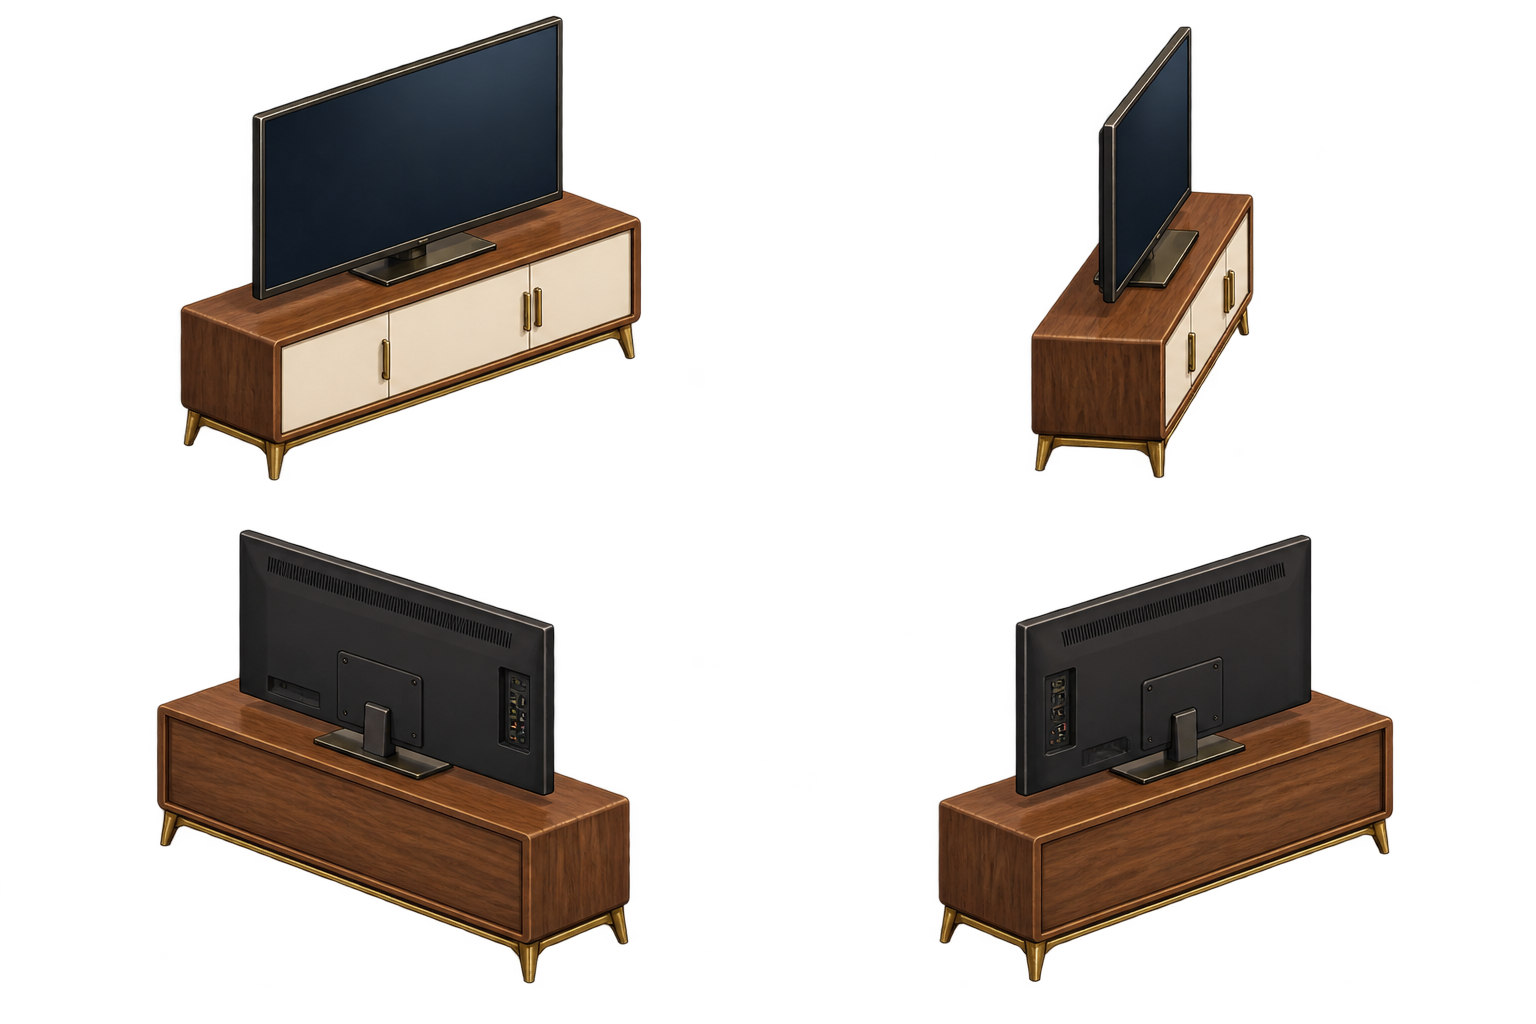
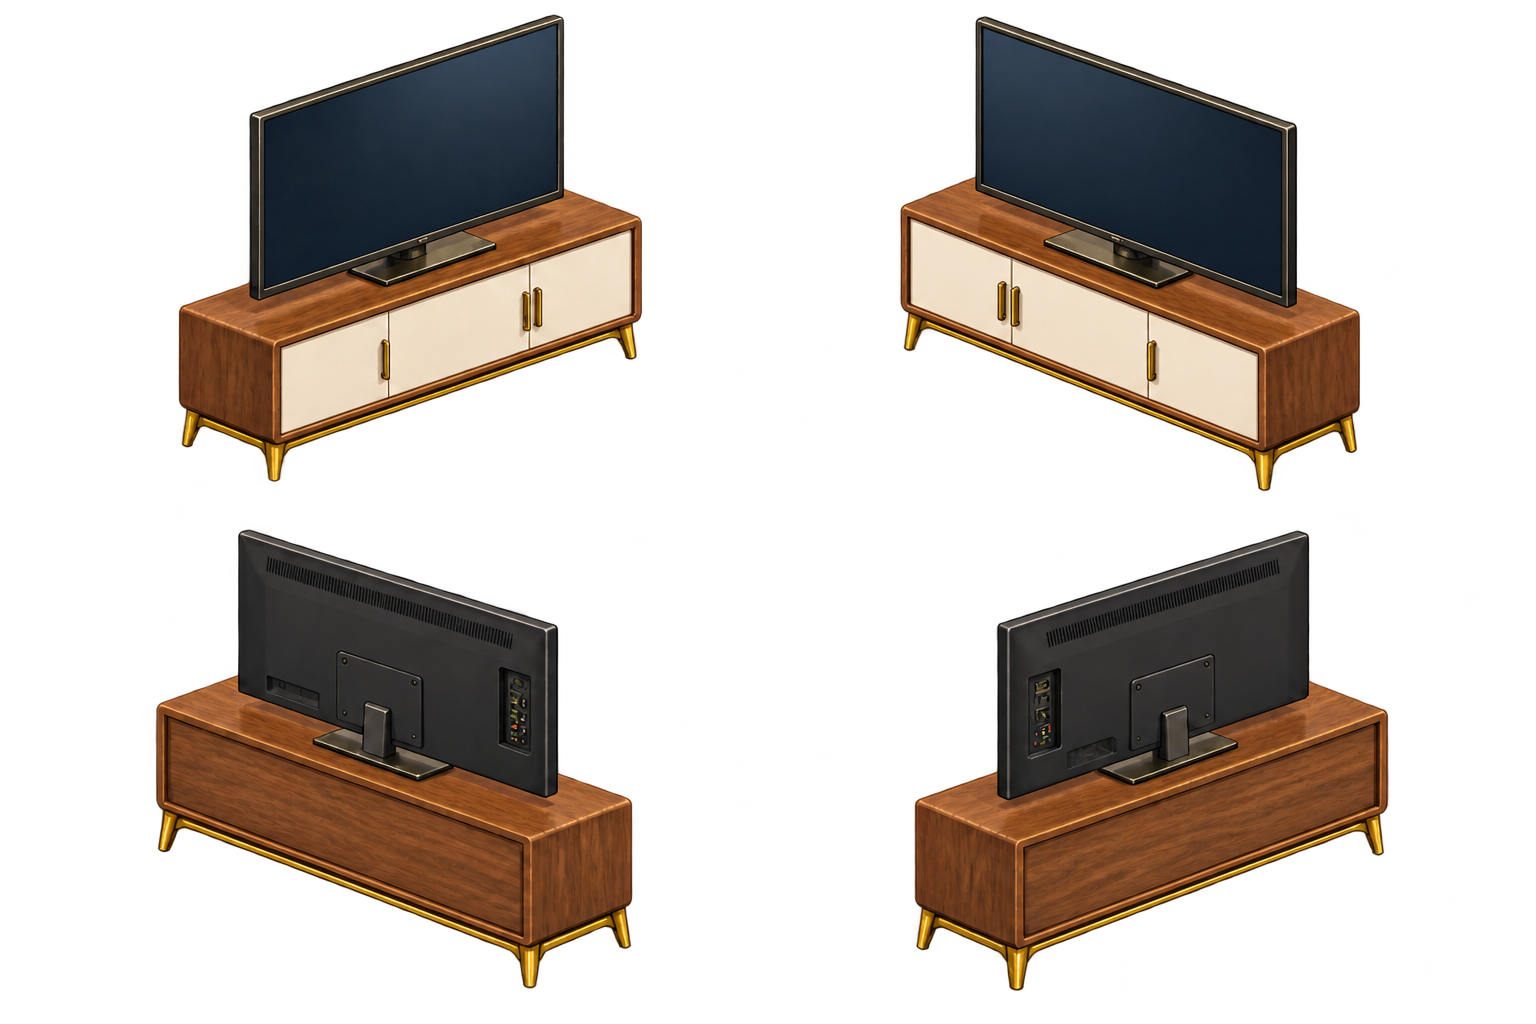
Correct TV front rotation sprite angle

diff --git a/docs/games/ast-home/mansion.js b/docs/games/ast-home/mansion.js
@@ -74,5 +74,5 @@ function load(src){return new Promise((resolve,reject)=>{const im=new Image();im
 function scan(im){const c=document.createElement('canvas');c.width=im.width;c.height=im.height;const g=c.getContext('2d');g.drawImage(im,0,0);const data=g.getImageData(0,0,c.width,c.height).data;return [0,1,2,3].map(n=>{const sx=Math.floor(n%2*c.width/2),sy=Math.floor(Math.floor(n/2)*c.height/2),ex=Math.floor((n%2+1)*c.width/2),ey=Math.floor((Math.floor(n/2)+1)*c.height/2);let l=ex,r=sx,t=ey,b=sy;for(let y=sy;y<ey;y++)for(let x=sx;x<ex;x++)if(data[(y*c.width+x)*4+3]>40){l=Math.min(l,x);r=Math.max(r,x);t=Math.min(t,y);b=Math.max(b,y)}return {x:l,y:t,w:r-l+1,h:b-t+1}})}
 function renderStore(){const kind=parent?'surface':AREAS[area].kind;$('houseStoreTitle').textContent=parent?'식탁 위 음식':AREAS[area].name+' · 아이템 구매';$('storeHint').textContent=parent?'음식은 식탁 위에만 배치됩니다.':'이 영역에 맞는 아이템만 표시됩니다.';const cards=$('houseCards');cards.replaceChildren();for(const d of HOUSE_ITEMS.filter(d=>d.places.includes(kind))){const b=document.createElement('button');b.className='card';b.dataset.type=d.id;b.disabled=busy||!connected||!supported||state.coins<d.price||(newItems.has(d.id)&&catalogVersion<2);b.classList.toggle('insufficient',b.disabled);const c=document.createElement('canvas');c.width=180;c.height=140;const f=frames[d.id][0],scale=Math.min(165/f.w,130/f.h);c.getContext('2d').drawImage(sprites[d.id],f.x,f.y,f.w,f.h,(180-f.w*scale)/2,(140-f.h*scale)/2,f.w*scale,f.h*scale);const name=document.createElement('strong');name.textContent=d.name;const details=document.createElement('small');details.textContent=newItems.has(d.id)&&catalogVersion<2?'서버 업데이트 필요':d.category+' · '+d.w+' × '+d.h+'셀';const cost=document.createElement('span'),coin=document.createElement('img');coin.src='assets/ui/ast-coin.png';coin.className='ast-coin';coin.alt='아스트';cost.append(coin,document.createTextNode(String(d.price)));b.append(c,name,details,cost);b.onclick=()=>{if(busy||!connected||state.coins<d.price)return;$('houseStore').close();const item={uid:crypto.randomUUID(),type:d.id,area,x:0,y:0,rotation:0};if(parent)item.parent=parent;const bounds=parent?definition(state.items.find(i=>i.uid===parent).type).surface:AREAS[area];let found=false;for(let y=0;y<bounds.h&&!found;y++)for(let x=0;x<bounds.w&&!found;x++){item.x=x;item.y=y;if(canBuild(item,state.items))found=true}if(!found){status('이 영역에 빈 공간이 없습니다.');return}startDraft(item,true)};cards.append(b)}}
 $('houseShop').onclick=async()=>{if(!area||draft||busy)return;renderStore();$('houseStore').showModal();if(shared){$('storeHint').textContent='최신 아스트 잔액 확인 중…';await sync();if(!connected){$('storeHint').textContent='서버 연결을 확인한 뒤 다시 시도하세요.';renderStore();return}renderStore()}};$('houseStoreClose').onclick=()=>$('houseStore').close();
-async function start(){try{const work=[1,2].map(async n=>{backgrounds[n]=await load(n===1?'assets/house/floor-1-approved-v5.png':'assets/house/floor-2.png')});for(const d of HOUSE_ITEMS)work.push((async()=>{const existing=['plant','bookshelf','chair','coffee-table'].includes(d.asset);const im=await load(`assets/${existing?'furniture':'house'}/${d.asset}-4dir.png`);sprites[d.id]=im;frames[d.id]=scan(im)})());await Promise.all(work);ready=true;renderAreas();draw();await sync()}catch(e){status(e.message);$('houseSync').onclick=()=>location.reload()}}
+async function start(){try{const work=[1,2].map(async n=>{backgrounds[n]=await load(n===1?'assets/house/floor-1-approved-v5.png':'assets/house/floor-2.png')});for(const d of HOUSE_ITEMS)work.push((async()=>{const existing=['plant','bookshelf','chair','coffee-table'].includes(d.asset);const im=await load(`assets/${existing?'furniture':'house'}/${d.asset}-4dir.png${d.asset==='tv-console'?'?v=20261019-tv2':''}`);sprites[d.id]=im;frames[d.id]=scan(im)})());await Promise.all(work);ready=true;renderAreas();draw();await sync()}catch(e){status(e.message);$('houseSync').onclick=()=>location.reload()}}
 start();

diff --git a/docs/games/ast-home/index.html b/docs/games/ast-home/index.html
@@ -1,6 +1,6 @@
 <!doctype html>
-<html lang="ko"><head><meta charset="utf-8"><meta name="viewport" content="width=device-width,initial-scale=1"><title>My Home</title><link rel="stylesheet" href="style.css?v=20261019-camera1"><link rel="stylesheet" href="house.css?v=20261019-house2"></head>
+<html lang="ko"><head><meta charset="utf-8"><meta name="viewport" content="width=device-width,initial-scale=1"><title>My Home</title><link rel="stylesheet" href="style.css?v=20261019-camera1"><link rel="stylesheet" href="house.css?v=20261019-house3"></head>
 <body><header><strong>MY HOME <small>우리 집 꾸미기</small></strong><div><span class="ast-balance"><img class="ast-coin" src="assets/ui/ast-coin.png" alt=""><span id="wallet">잔액 확인 중…</span></span><button id="retrySync" hidden>다시 연결</button><button id="shopButton">＋ 아이템 구매</button></div></header>
 <main><div id="zoomControls" aria-label="화면 확대"><button id="zoomOut" aria-label="축소" disabled>−</button><button id="zoomReset" aria-label="100%로 초기화">100%</button><button id="zoomIn" aria-label="확대">＋</button></div><button id="enterMansion" hidden aria-label="본관 실내로 입장">↳ ENTER</button><canvas id="game" width="1536" height="1024" aria-label="가구를 선택하고 바닥 셀을 눌러 배치하는 거실"></canvas><p id="status" role="status">가구 이미지를 불러오는 중…</p><div id="actions" hidden><span id="furnitureDetails"></span><button id="move">✥ 이동</button><button id="rotateSelected">↻ 회전</button></div><div id="placement" hidden><button id="rotateDraft">↻ 회전</button><button id="confirm"><span>O 확정</span><span class="confirm-cost"><img class="ast-coin" src="assets/ui/ast-coin.png" alt="아스트"><span id="confirmCost">0</span></span></button><button id="cancel">X 취소</button></div></main>
 <dialog id="shop"><div class="dialogHeading"><h2>가구 구매</h2><button id="closeShop" aria-label="닫기">✕</button></div><p id="shopNotice">가구를 고른 뒤 바닥 셀에 배치하세요. 확정할 때 아스트가 사용됩니다.</p><div id="catalog"></div><small>구매 확정 시 표시된 아스트가 사용됩니다.</small></dialog>
-<script type="module">if(new URLSearchParams(location.search).get("scene")==="mansion"){import("./mansion.js?v=20261019-house2")}else{import("./game.js?v=20261019-house2")}</script></body></html>
+<script type="module">if(new URLSearchParams(location.search).get("scene")==="mansion"){import("./mansion.js?v=20261019-house3")}else{import("./game.js?v=20261019-house3")}</script></body></html>
